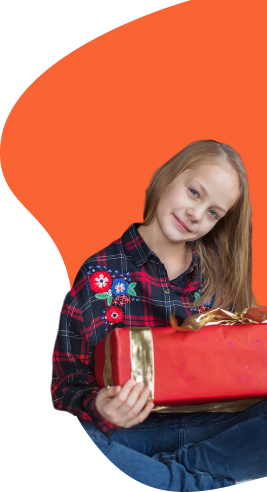
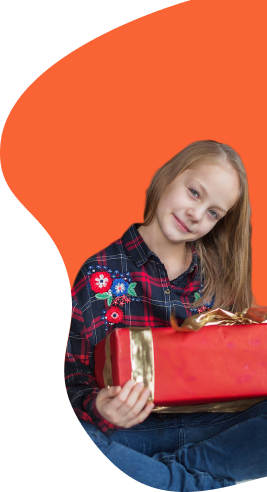
секция запускаем марафон добра

diff --git a/src/styles/marathon.css b/src/styles/marathon.css
@@ -1,0 +1,210 @@
+.marathon {
+  max-width: 1312px;
+  display: grid;
+  grid-template-columns: repeat(2, 1fr);
+  grid-template-rows: repeat(4, auto);
+  /* display: flex; */
+  column-gap: 42px;
+  row-gap: 16px;
+  justify-items: center;
+  align-items: center;
+  margin: 0 64px 100px 64px;
+  /* border: 1px red solid; */
+}
+
+.marathon__img-wrp {
+  max-width: 622px;
+  overflow: hidden;
+  grid-row: 1/5;
+  grid-column: 1;
+}
+
+.marathon__img {
+  width: 100%;
+}
+
+/* .marathon__content {
+  max-width: 622px;
+  display: flex;
+  flex-direction: column;
+  gap: 16px;
+  justify-content: center;
+ 
+} */
+
+.marathon__title {
+  color: #464646;
+  font-family: 'Inter', Arial, sans-serif;
+  font-size: 46px;
+  font-style: normal;
+  font-weight: 700;
+  line-height: 72px;
+  justify-self: start;
+  align-self: end;
+}
+.marathon__description {
+  color: #464646;
+  font-family: 'Inter', Arial, sans-serif;
+  font-size: 24px;
+  font-style: normal;
+  font-weight: 400;
+  line-height: 32px;
+  margin-bottom: 26px;
+}
+
+.marathon__description-btm {
+  color: #464646;
+  font-family: 'Inter', Arial, sans-serif;
+  font-size: 24px;
+  font-style: normal;
+  font-weight: 500;
+  margin-bottom: 16px;
+  justify-self: start;
+  align-self: start;
+}
+
+.marathon__button {
+  justify-self: start;
+  align-self: start;
+  /* margin-top: -90px; */
+}
+
+@media screen and (max-width: 960px) {
+  .marathon {
+    max-width: 758px;
+    margin: 0 24px 85px 24px;
+    column-gap: 65px;
+  }
+  .marathon__img-wrp {
+    max-width: 314px;
+  }
+  /* .marathon__content {
+    max-width: 378px;
+  } */
+  .marathon__title {
+    font-size: 24px;
+
+    font-weight: 600;
+    line-height: 28px;
+  }
+  .marathon__description {
+    font-size: 14px;
+    line-height: 18px;
+    margin-bottom: 0;
+  }
+  .marathon__description-btm {
+    font-size: 14px;
+    line-height: 18px;
+    font-weight: 400;
+    margin-bottom: 8px;
+  }
+
+  .marathon__button {
+    margin-top: -36px;
+  }
+}
+
+@media screen and (max-width: 800px) {
+  .marathon {
+    grid-template-rows: repeat(4, auto);
+    max-width: 648px;
+    margin: 0 48px 85px 48px;
+    column-gap: 40px;
+    row-gap: 0px;
+  }
+  .marathon__img-wrp {
+    max-width: 211px;
+    grid-row: 3/5;
+  grid-column: 2;
+  }
+  .marathon__title {
+     grid-row: 1;
+  grid-column: 1/3;
+  text-align: center;
+  justify-self: center;
+  align-self: end;
+    font-size: 32px;
+    font-weight: 700;
+    line-height: 40px;
+     margin-bottom: 24px;
+  }
+  .marathon__description {
+     align-self: start;
+    font-size: 16px;
+    line-height: 20px;
+     grid-row: 2;
+  grid-column: 1/3;
+  
+   
+  }
+  .marathon__description-btm {
+    font-size: 16px;
+    line-height: 20px;
+    margin-top: 56px;
+    margin-bottom: 0;
+    
+  }
+   .marathon__button {
+    margin-top: 0;
+  }
+}
+
+@media screen and (max-width: 705px) {
+  .marathon {
+   grid-template-columns: 1fr;
+  grid-template-rows: repeat(4, auto);
+  margin: 0 24px 64px 24px;
+  justify-items: center;
+  align-items: center;
+  column-gap: 0;
+  row-gap: 16px;
+  }
+    .marathon__img-wrp {
+    max-width: 253px;
+    grid-row: 4;
+  grid-column: 1;
+   justify-self: center;
+  align-self: center;
+  margin-bottom: 8px;
+
+  }
+
+   .marathon__title {
+    font-size: 24px;
+    font-weight: 600;
+    line-height: 28px;
+     margin: 0;
+      justify-self: center;
+  align-self: center;
+    
+  }
+
+    .marathon__description {
+    
+    font-size: 14px;
+    line-height: 18px;
+     grid-row: 2;
+  grid-column: 1;
+   margin: 0;
+  
+
+   
+  }
+
+    .marathon__description-btm {
+    font-size: 14px;
+    line-height: 18px;
+    grid-row: 3;
+  grid-column: 1;
+      margin-top: 0;
+
+    
+  }
+
+     .marathon__button {
+     grid-row: 5;
+  grid-column: 1;
+  justify-self: center;
+  align-self: center;
+  }
+}

diff --git a/src/index.html b/src/index.html
@@ -18,8 +18,8 @@
 
     <main class="content">
       <section class="intro">
+        <img class="intro__logo" src="./images/logo.svg" alt="лого" />
         <div class="intro__content">
-          <img class="intro__logo" src="./images/logo.svg" alt="лого" />
           <h1 class="intro__title text">Щедрый&nbsp;Новый&nbsp;год</h1>
           <p class="intro__subtitle text">
             Участвуйте в марафоне добра и вы поможете детям сделать шаг к
@@ -31,7 +31,32 @@
           <img class="intro__img" src="./images/girl_main.png" alt="Девочка" />
         </div> -->
       </section>
-      <section class="marathon"></section>
+      <section class="marathon">
+        <div class="marathon__img-wrp">
+          <img
+            class="marathon__img"
+            alt="Девочка"
+            src="./images/girl_marathon.png"
+          />
+        </div>
+        <!-- <div class="marathon__content"> -->
+        <h2 class="marathon__title text">Запускаем марафон добра</h2>
+        <p class="marathon__description text">
+          Традиционно в конце года фонд «Найди семью» собирает у своих
+          подопечных приемных семей запросы на новогодние подарки. Это подарки,
+          без которых жизнь детей практически невозможна: лекарства, медицинские
+          обследования, ортопедические конструкции.
+        </p>
+
+        <p class="marathon__description-btm text">
+          Весь декабрь мы будем собирать средства, которые пойдут на оплату
+          необходимого лечения детям из приемных семей и
+          <span class="marathon__span">приглашаем вас присоединиться!</span>
+        </p>
+        <button class="button marathon__button">Хочу помочь</button>
+
+        <!-- </div> -->
+      </section>
       <section class="donations"></section>
       <section class="cards"></section>
       <section class="banner"></section>

diff --git a/src/styles/intro.css b/src/styles/intro.css
@@ -2,7 +2,7 @@
   /* display: flex;
   justify-content: space-between;
   align-items: flex-start; */
-  margin: 0 0 0 64px;
+  margin: 0 0 100px 64px;
   padding-top: 61px;
   position: relative;
   /* gap: 368px; */
@@ -10,13 +10,11 @@
   background-repeat: no-repeat;
   background-position: right top;
   background-size: contain;
-  border: 1px red solid;
 }
 .intro__content {
   display: flex;
   flex-direction: column;
   gap: 32px;
-  
 }
 
 .intro__logo {
@@ -56,7 +54,6 @@
   height: 100%;
 }
 .intro__img {
-
   position: absolute;
   top: 0;
   right: 0;
@@ -65,7 +62,7 @@
 @media screen and (max-width: 960px) {
   .intro {
     /* gap: 290px; */
-    margin: 0 0 0 24px;
+    margin: 0 0 100px 24px;
     padding-top: 36px;
   }
   .intro__content {
@@ -73,8 +70,8 @@
   }
   .intro__logo {
     width: 140px;
+    /* height: 48px; */
     margin-bottom: 67px;
-    
   }
   .intro__title {
     font-size: 28px;
@@ -94,13 +91,12 @@
     top: 40px;
     left: 55%;
   }
-
 }
 
 @media screen and (max-width: 800px) {
   .intro {
     /* gap: 216px; */
-    margin: 0 0 0 38px;
+    margin: 0 0 100px 38px;
     padding-top: 48px;
   }
 
@@ -124,24 +120,25 @@
     top: -36px;
     left: 36%;
   }
-
 }
 
-@media screen and (max-width: 540px) {
+@media screen and (max-width: 705px) {
   .intro {
-    /* gap: 1px; */
-    background-image: url(../images/girl_main_mobile.png);
-    margin: 0 0 0 24px;
-    padding-top: 32px;
-    background-size: 250px 490px;
-
+    background: url(../images/girl_main_mobile.png) top right / 267px no-repeat;
+    margin: 0 0 64px 0;
+    padding-top: 24px;
   }
   .intro__logo {
-    margin: 0 0 427px 0;
+    margin: 0 0 417px 24px;
+  }
+  .intro__content {
+    align-items: center;
+    padding: 0 24px;
   }
   .intro__title {
     font-size: 28px;
     line-height: 32px;
+    max-width: 311px;
   }
   .intro__subtitle {
     font-size: 14px;

diff --git a/src/pages/index.css b/src/pages/index.css
@@ -4,3 +4,4 @@
 @import url(../styles/page.css);
 @import url(../styles/header.css);
 @import url(../styles/intro.css);
+@import url(../styles/marathon.css);

diff --git a/src/styles/page.css b/src/styles/page.css
@@ -6,6 +6,7 @@
   display: flex;
   flex-direction: column;
   margin: auto;
+  /* border: 1px red solid; */
 }
 
 .snowflake {

diff --git a/src/styles/global.css b/src/styles/global.css
@@ -1,5 +1,6 @@
 * {
   box-sizing: border-box;
+  /* border: 1px red solid; */
 }
 
 .button {
